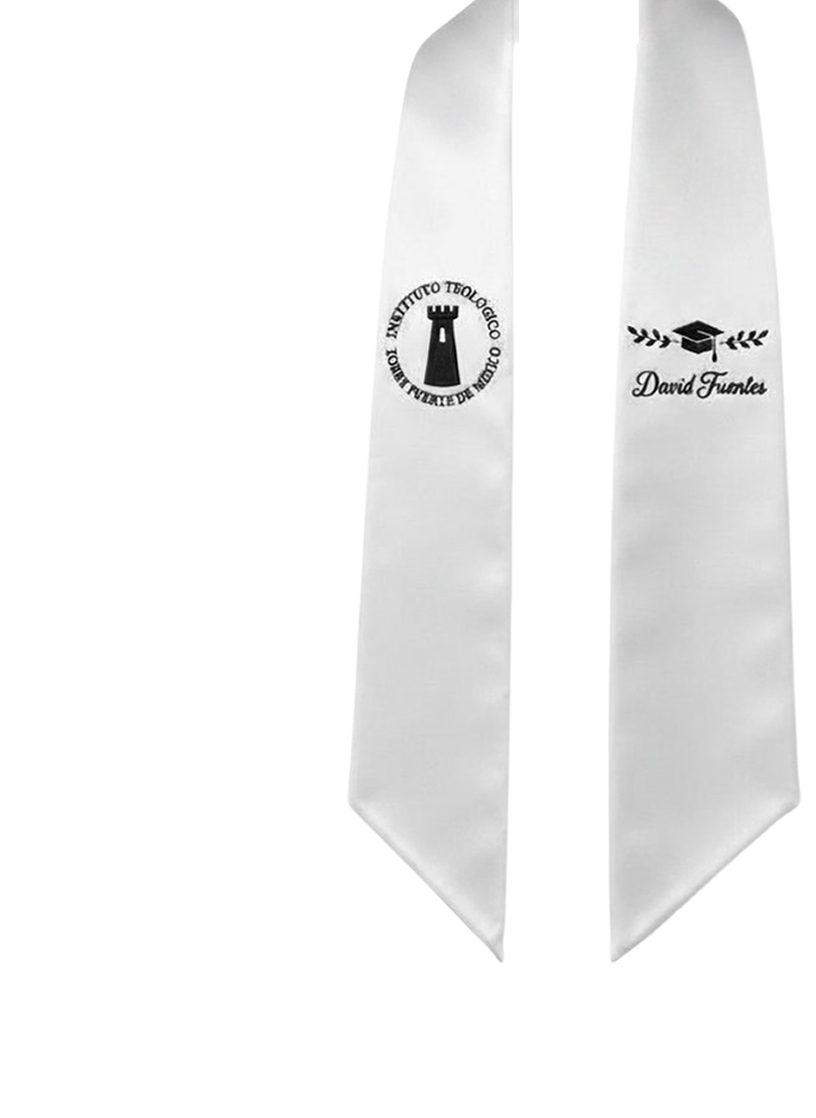
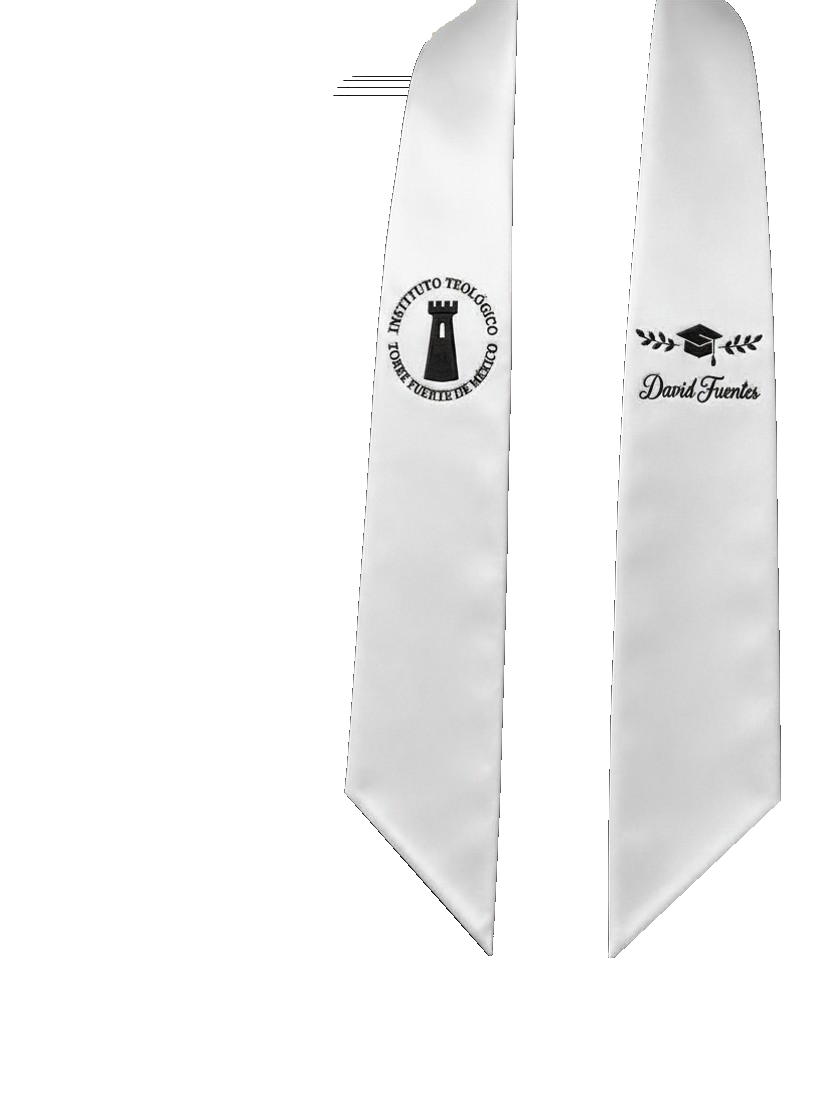
fix(quoter): ajustar mascara y contener efecto de color al limite de estola en preparatoria C.1

diff --git a/src/components/quoter/StepConfig.tsx b/src/components/quoter/StepConfig.tsx
@@ -584,7 +584,7 @@ export function StepConfig({
                   exit={{ opacity: 0, filter: "blur(8px)" }}
                   transition={{ duration: 0.4, ease: "easeInOut" }}
                   className={cn(
-                    "relative max-h-full flex items-center justify-center z-10",
+                    "relative max-h-full flex items-center justify-center z-10 overflow-hidden",
                     service === "venta" ? "w-full h-full" : level === "preescolar" ? "aspect-[1132/1390]" : "aspect-[816/1118]"
                   )}
                 >
@@ -659,16 +659,18 @@ export function StepConfig({
                     }
 
                     const stolaSolidHex = activeStola?.hex || "transparent";
+                    const isPrepC1 = pkg?.variant === "prep_c1";
+                    const enableShadowAndScale = service !== "venta" && !isPrepC1;
 
                     return (
                       <div 
                         className="absolute inset-0 mix-blend-multiply"
                         style={{ 
-                          filter: service === "venta" ? undefined : `drop-shadow(1px 0 0 ${stolaSolidHex}) drop-shadow(-1px 0 0 ${stolaSolidHex}) drop-shadow(0 1px 0 ${stolaSolidHex}) drop-shadow(0 -1px 0 ${stolaSolidHex}) drop-shadow(1px 1px 0 ${stolaSolidHex}) drop-shadow(-1px -1px 0 ${stolaSolidHex}) drop-shadow(1px -1px 0 ${stolaSolidHex}) drop-shadow(-1px 1px 0 ${stolaSolidHex})` 
+                          filter: enableShadowAndScale ? `drop-shadow(1px 0 0 ${stolaSolidHex}) drop-shadow(-1px 0 0 ${stolaSolidHex}) drop-shadow(0 1px 0 ${stolaSolidHex}) drop-shadow(0 -1px 0 ${stolaSolidHex}) drop-shadow(1px 1px 0 ${stolaSolidHex}) drop-shadow(-1px -1px 0 ${stolaSolidHex}) drop-shadow(1px -1px 0 ${stolaSolidHex}) drop-shadow(-1px 1px 0 ${stolaSolidHex})` : undefined 
                         }}
                       >
                         <div 
-                          className={cn("w-full h-full origin-center", service !== "venta" && "scale-[1.015]")}
+                          className={cn("w-full h-full origin-center", enableShadowAndScale && "scale-[1.015]")}
                           style={{
                             background: stolaBg,
                             ...maskStyles

diff --git a/src/components/quoter/StepConfigAccordion.tsx b/src/components/quoter/StepConfigAccordion.tsx
@@ -600,7 +600,7 @@ export function StepConfigAccordion({
                   exit={{ opacity: 0, filter: "blur(8px)" }}
                   transition={{ duration: 0.4, ease: "easeInOut" }}
                   className={cn(
-                    "relative max-h-full flex items-center justify-center z-10",
+                    "relative max-h-full flex items-center justify-center z-10 overflow-hidden",
                     service === "venta" ? "w-full h-full" : level === "preescolar" ? "aspect-[1132/1390]" : "aspect-[816/1118]",
                   )}
                 >
@@ -678,12 +678,14 @@ export function StepConfigAccordion({
                       }
 
                       const stolaSolidHex = activeStola?.hex || "transparent";
+                      const isPrepC1 = pkg?.variant === "prep_c1";
+                      const enableShadow = service !== "venta" && !isPrepC1;
 
                       return (
                         <div
                           className="absolute inset-0 mix-blend-multiply"
                           style={{
-                            filter: service === "venta" ? undefined : `drop-shadow(1px 0 0 ${stolaSolidHex}) drop-shadow(-1px 0 0 ${stolaSolidHex}) drop-shadow(0 1px 0 ${stolaSolidHex}) drop-shadow(0 -1px 0 ${stolaSolidHex}) drop-shadow(0 0 1px ${stolaSolidHex})`,
+                            filter: enableShadow ? `drop-shadow(1px 0 0 ${stolaSolidHex}) drop-shadow(-1px 0 0 ${stolaSolidHex}) drop-shadow(0 1px 0 ${stolaSolidHex}) drop-shadow(0 -1px 0 ${stolaSolidHex}) drop-shadow(0 0 1px ${stolaSolidHex})` : undefined,
                           }}
                         >
                           <div

diff --git a/src/components/quoter/StepConfigHidden.tsx b/src/components/quoter/StepConfigHidden.tsx
@@ -597,7 +597,7 @@ export function StepConfigHidden({
                   exit={{ opacity: 0, filter: "blur(8px)" }}
                   transition={{ duration: 0.4, ease: "easeInOut" }}
                   className={cn(
-                    "relative max-h-full flex items-center justify-center z-10",
+                    "relative max-h-full flex items-center justify-center z-10 overflow-hidden",
                     service === "venta" ? "w-full h-full" : level === "preescolar" ? "aspect-[1132/1390]" : "aspect-[816/1118]",
                   )}
                 >
@@ -675,12 +675,14 @@ export function StepConfigHidden({
                       }
 
                       const stolaSolidHex = activeStola?.hex || "transparent";
+                      const isPrepC1 = pkg?.variant === "prep_c1";
+                      const enableShadow = service !== "venta" && !isPrepC1;
 
                       return (
                         <div
                           className="absolute inset-0 mix-blend-multiply"
                           style={{
-                            filter: service === "venta" ? undefined : `drop-shadow(1px 0 0 ${stolaSolidHex}) drop-shadow(-1px 0 0 ${stolaSolidHex}) drop-shadow(0 1px 0 ${stolaSolidHex}) drop-shadow(0 -1px 0 ${stolaSolidHex}) drop-shadow(0 0 1px ${stolaSolidHex})`,
+                            filter: enableShadow ? `drop-shadow(1px 0 0 ${stolaSolidHex}) drop-shadow(-1px 0 0 ${stolaSolidHex}) drop-shadow(0 1px 0 ${stolaSolidHex}) drop-shadow(0 -1px 0 ${stolaSolidHex}) drop-shadow(0 0 1px ${stolaSolidHex})` : undefined,
                           }}
                         >
                           <div

diff --git a/src/components/quoter/StepConfigTabs.tsx b/src/components/quoter/StepConfigTabs.tsx
@@ -592,7 +592,7 @@ export function StepConfigTabs({
                   exit={{ opacity: 0, filter: "blur(8px)" }}
                   transition={{ duration: 0.4, ease: "easeInOut" }}
                   className={cn(
-                    "relative max-h-full flex items-center justify-center z-10",
+                    "relative max-h-full flex items-center justify-center z-10 overflow-hidden",
                     service === "venta" ? "w-full h-full" : level === "preescolar" ? "aspect-[1132/1390]" : "aspect-[816/1118]",
                   )}
                 >
@@ -670,12 +670,14 @@ export function StepConfigTabs({
                       }
 
                       const stolaSolidHex = activeStola?.hex || "transparent";
+                      const isPrepC1 = pkg?.variant === "prep_c1";
+                      const enableShadow = service !== "venta" && !isPrepC1;
 
                       return (
                         <div
                           className="absolute inset-0 mix-blend-multiply"
                           style={{
-                            filter: service === "venta" ? undefined : `drop-shadow(1px 0 0 ${stolaSolidHex}) drop-shadow(-1px 0 0 ${stolaSolidHex}) drop-shadow(0 1px 0 ${stolaSolidHex}) drop-shadow(0 -1px 0 ${stolaSolidHex}) drop-shadow(0 0 1px ${stolaSolidHex})`,
+                            filter: enableShadow ? `drop-shadow(1px 0 0 ${stolaSolidHex}) drop-shadow(-1px 0 0 ${stolaSolidHex}) drop-shadow(0 1px 0 ${stolaSolidHex}) drop-shadow(0 -1px 0 ${stolaSolidHex}) drop-shadow(0 0 1px ${stolaSolidHex})` : undefined,
                           }}
                         >
                           <div
